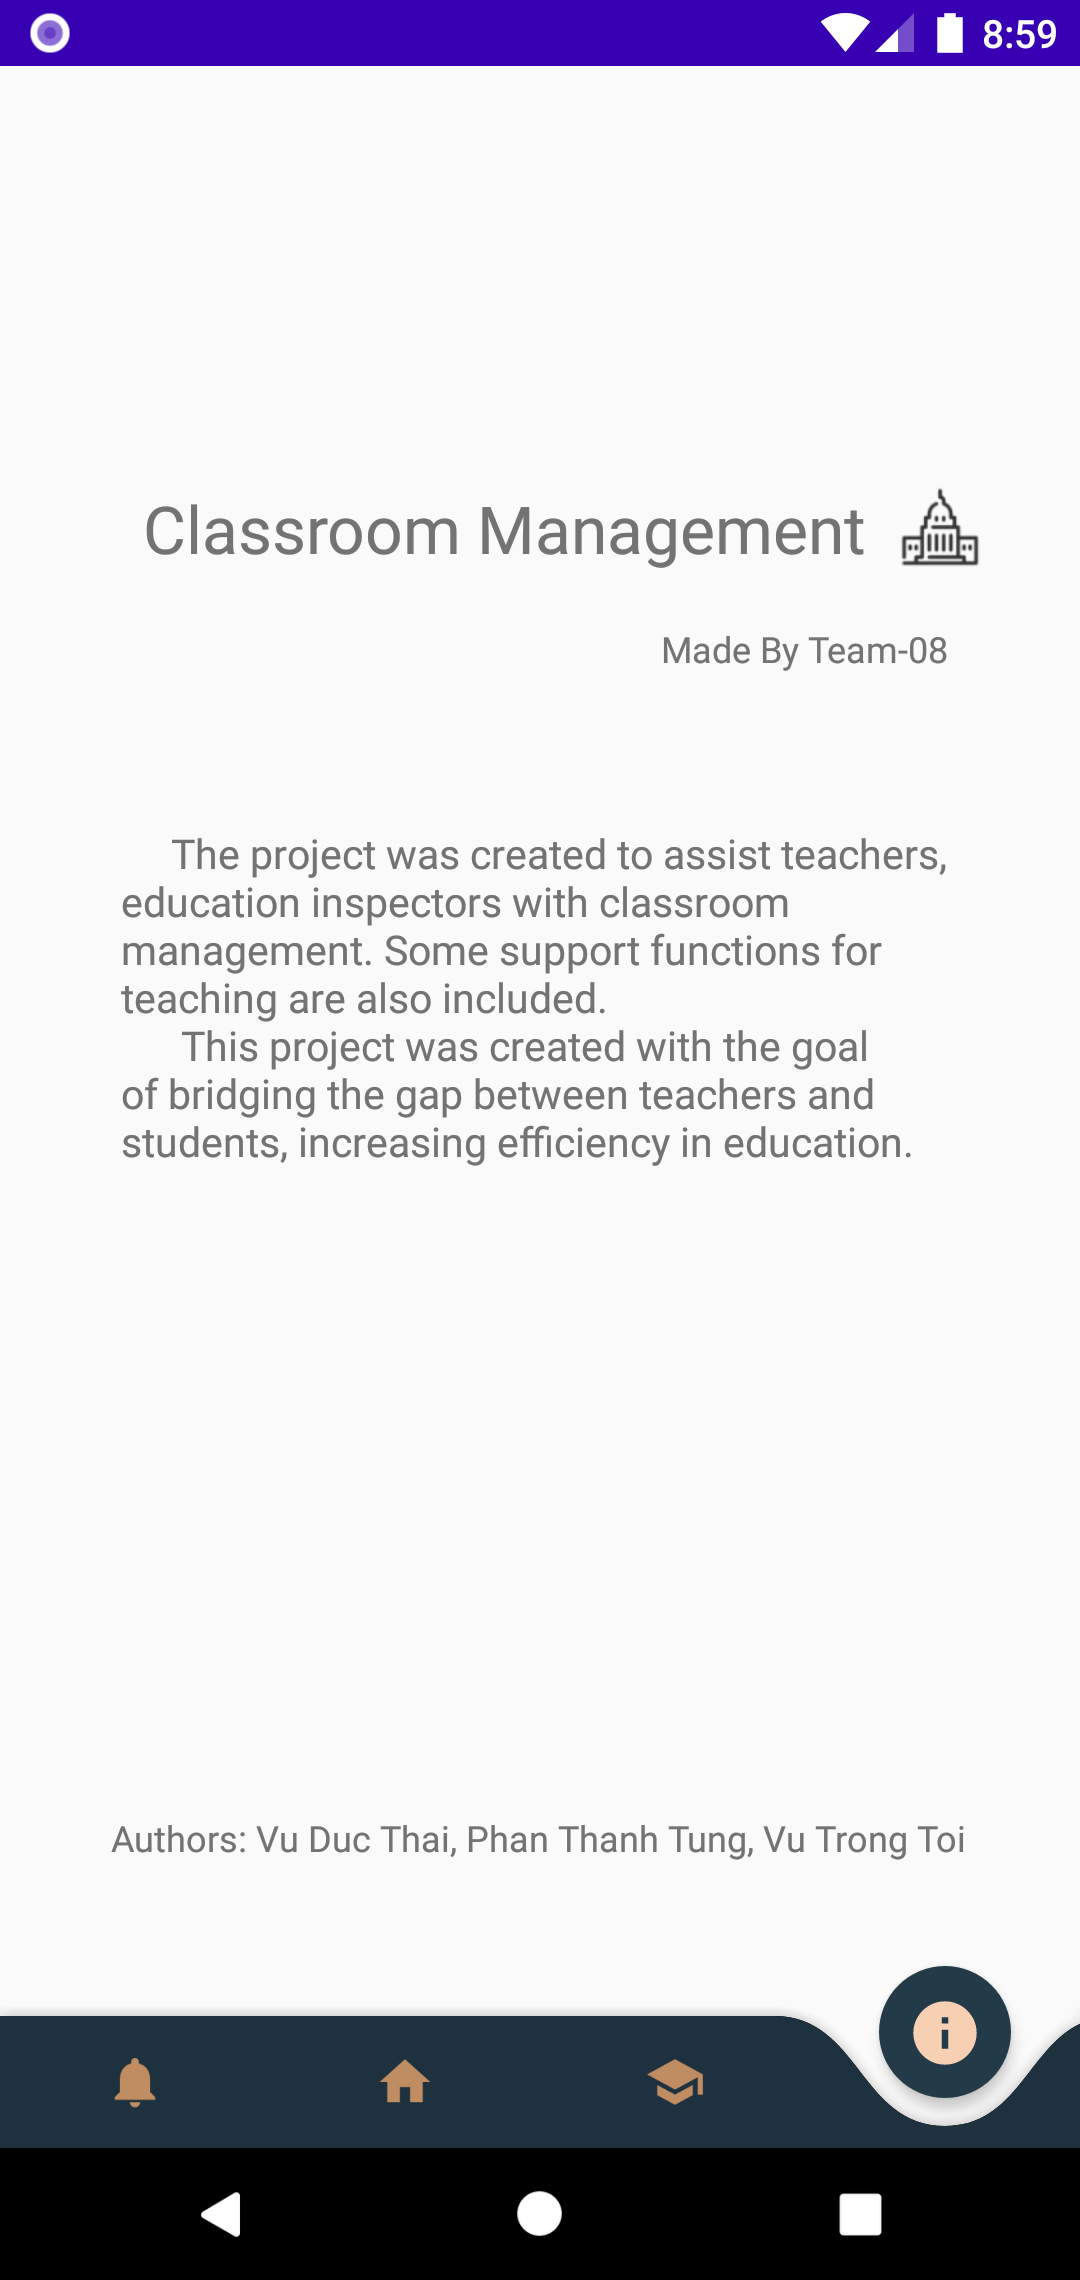
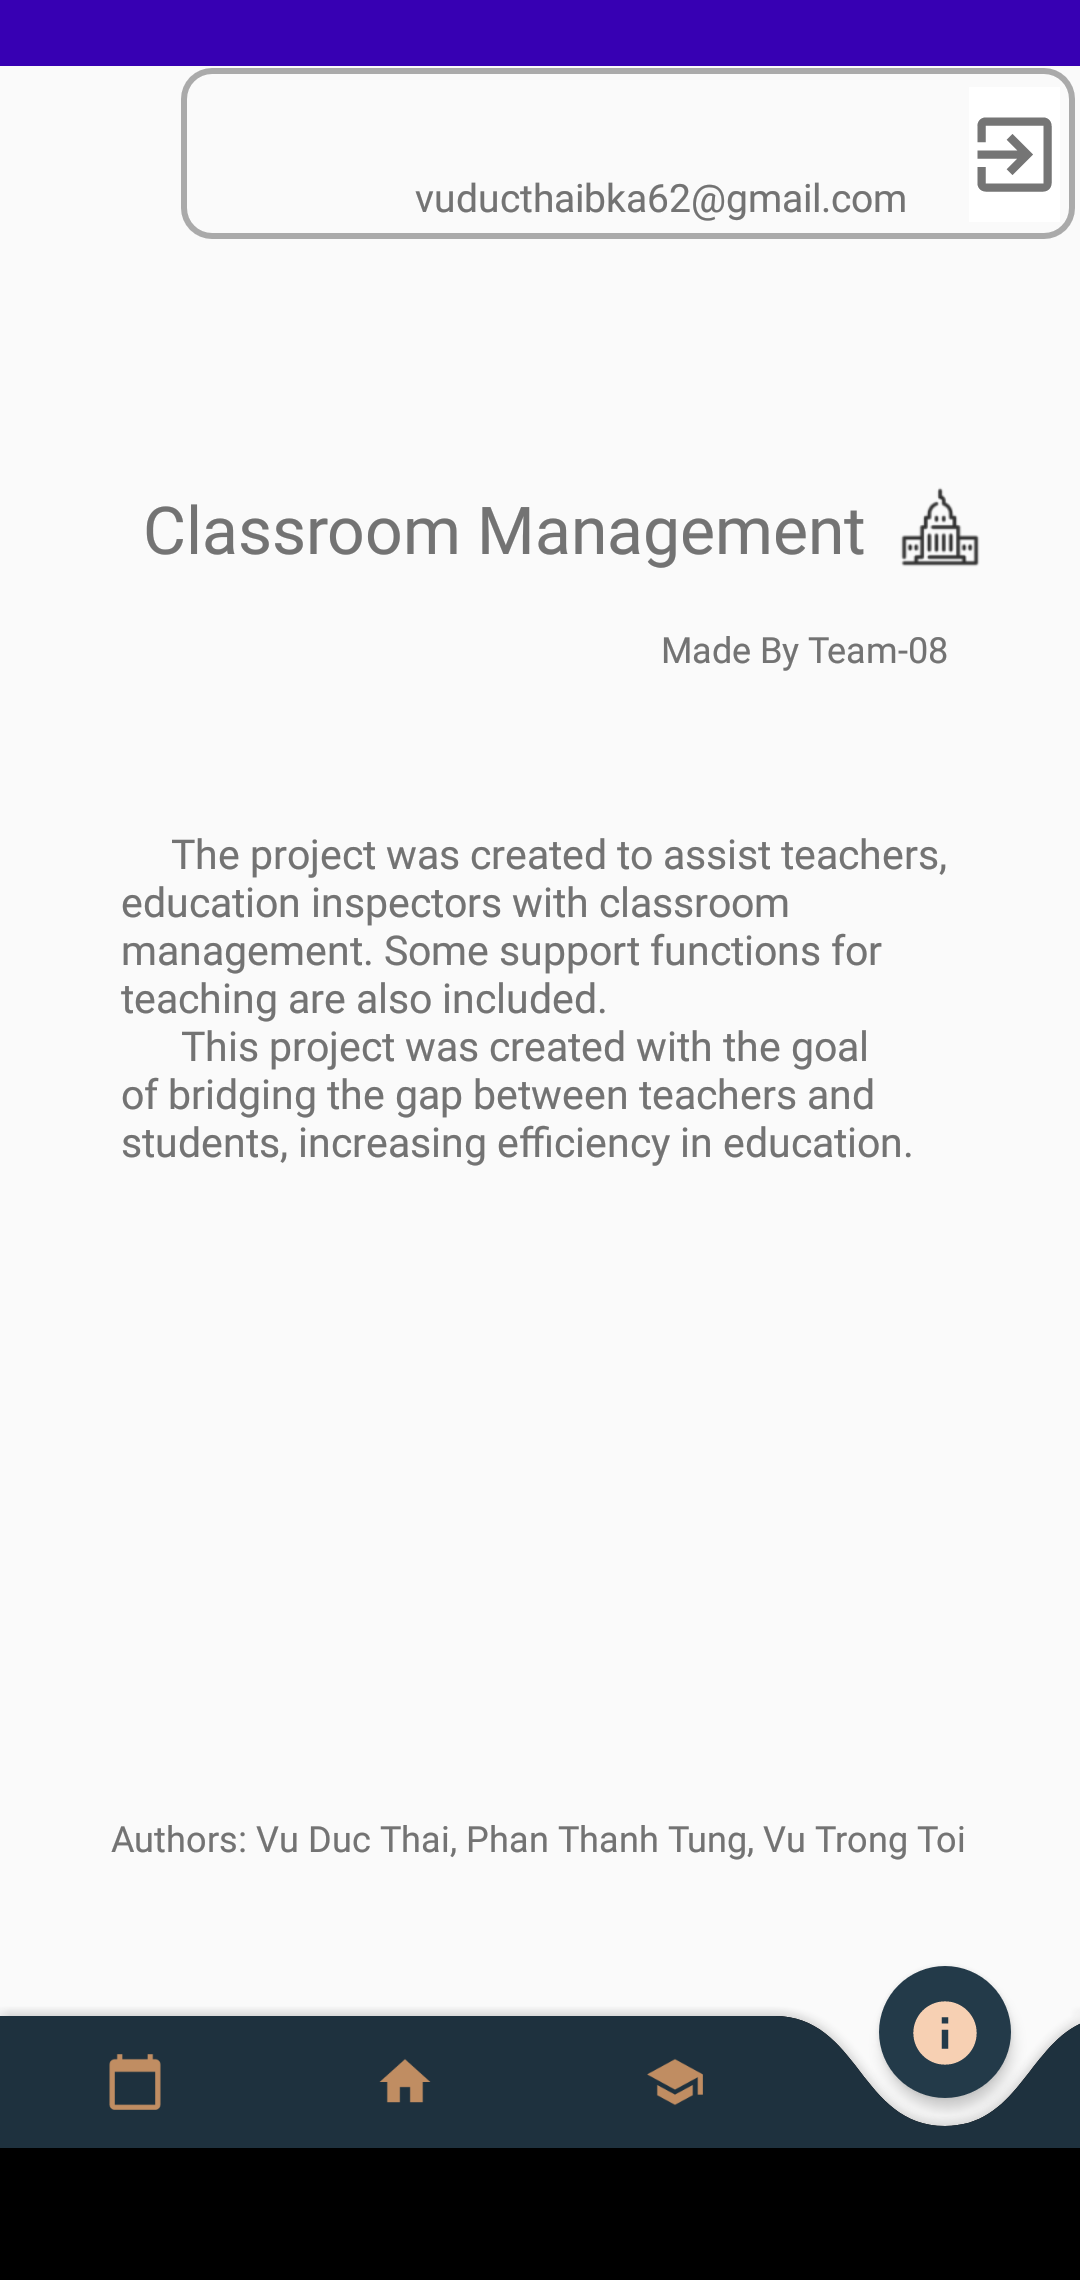
updating readme.md: update app's usage for final term

diff --git a/README.md b/README.md
@@ -4,57 +4,82 @@
 - [Usage](#usage)
   - [Login interface](#login-interface)
   - [Mainscreen interface](#mainscreen-interface)
-  - [Interacting with classroom objects](#interacting-with-classroom-objects)
-  - [Interacting with student objects](#interacting-with-student-objects)
+    - [Interacting with classroom objects](#interacting-with-classroom-objects)
+    - [Interacting with student objects](#interacting-with-student-objects)
+  - [Notification interface](#notification-interface)
+    - [Viewing classroom schedule](#viewing-classroom-schedule)
+    - [Attending students](#attending-students)
+  - [Home interface](#home-interface)
 - [Contributors](#contributors)
 
 
 # Introduction 
-:notebook: This classroom management program will provide basic utilities to help teachers easily manage students in their classes. This project is made for learning purposes. :man_student:  :woman_student:
+:notebook: This classroom management program will provide basic utilities to help teachers easily to manage students in their classes. This project is made for learning purposes. :man_student:  :woman_student:
 
 # Environment
 - We run this project on Android Studio IDE.
 - Our virtual device that we used to debug the program in android studio is Pixel 5 (api: 26, resolution: 1080 x 2340: 440dpi, Target: Android 8.0, CPU/ABI: x86).
-- Our physical device: ... 
+- Our physical device: Redme 5 pro
 # Usage
-
 ## Login interface
-- Log in with the user's account and password (the trial will use the account 'admin' with the password 'admin').
+- User can login by google account.
+- If the user doesn't have an account before, click on "Create New Account" to signup account.
 <p align= "center">
 <img src="./images/Login_Screenshot.png" alt="Login Screenshot" style="width:100px;height:200px;" />
+<img src="./images/Signup_Screenshot.png" alt="Signup Screenshot" style="width:100px;height:200px;" />
 </p>
 
 ## Mainscreen interface
-- After successfully logining, the main interface of the program will appear. Click on the bottom menu (includes notification item, home item, list of classrooms, about item) of the screen and select the classroom management function (the third item from left to right of the bottom menu).
-- About item contains the application's intro, the current version number.
+- After successfully logining, the main interface of the program will appear. Click on the bottom menu (includes notification item, home item, list of classrooms, about item) on the screen and select item connected with list of the unique user's classrooms (the third item from left to right of the bottom menu).
+- About item contains the application's intro, the current version number, information of the account, signout button.
 <p align= "center">
 <img src="./images/ClassList_Screenshot.png" alt="List of classrooms Screenshot" style="width:100px;height:200px;" />
 <img src="./images/About_Screenshot.png" alt="About Screenshot" style="width:100px;height:200px;" />
 </p>
 
-## Interacting with classroom objects
-- If you want to add a new classroom, you will click on the ( + ) image button at the bottom-right, then a adding window to add a new classroom will appear, fill in the classroom's desired information and click "Save" to save the infor.
-- If you want to update the class information, just long press on this classroom item in the list view, then an editing window will appear (for this classroom item). Hearin, You can update the classroom's information, delete the classroom by clicking the trash icon at the top-right corner of action bar (a dialog will pop up to confirm deleting).
+### Interacting with classroom objects
+- If you want to add a new classroom, you will click on the ( + ) image button at the bottom-right, then a adding window to add a new classroom will appear, fill up with classroom's desired information and click "Save" to save the infor.
+- If you want to update the class information, just long press on this classroom item in the list view, then an editing window will appear (for this classroom item). Hearin, You can update this classroom's information, delete the classroom by clicking the trash icon at the top-right corner of action bar (a dialog will pop up to confirm deleting).
 <p align= "center">
 <img src="./images/AddingClass_Screenshot.png" alt="Adding Classroom Screenshot" style="width:100px;height:200px;" />
 <img src="./images/UpdatingClass_Screenshot.png" alt="Updating Classroom Screenshot" style="width:100px;height:200px;" />
 <img src="./images/DeletingClass_Screenshot.png" alt="Deleting Classroom Screenshot" style="width:100px;height:200px;" />
 </p>
 
-## Interacting with student objects
+### Interacting with student objects
 - When clicking on a specific classroom in list view of classrooms, a list of students corresponding to this classroom will appear. The number of available students in the classroom will be displayed on the screen.
 <p align= "center">
 <img src="./images/StudentList_Screenshot.png" alt="List of Students Screenshot" style="width:100px;height:200px;" />
 </p>
 
-- If you want to add a student to the classroom, you will click on the ( + ) at the bottom-right, then a adding window to add a new classroom will appear, fill in the student's desired information and click "Save" to save the infor.
-- If you want to update student's information, just long press on this student item in the list view. then an editing window will appear (for this student item). Hearin, You can update or delete the same as above with the classroom's information (a dialog will pop up to confirm deleting).
+- If you want to add a student to the classroom, you will click on the ( + ) at the bottom-right, then a adding window to add a new classroom will appear, fill up with the student's desired information and click "Save" to save the infor.
+- If you want to update student's information, just long press on this student item in the list view, then an editing window will appear (for this student item). Hearin, You can update or delete the same as above with the classroom's manual.
 - Besides, you can also search for the student' name in the list in the class by clicking on the searching icon at the top of action bar.
+
 <p align= "center">
 <img src="./images/AddingStudent_Screenshot.png" alt="Adding Student Screenshot" style="width:100px;height:200px;" />
 <img src="./images/UpdatingStudent_Screenshot.png" alt="Updating Student Screenshot" style="width:100px;height:200px;" />
 <img src="./images/DeletingStudent_Screenshot.png" alt="Deleting Student Screenshot" style="width:100px;height:200px;" />
 <img src="./images/SearchingStudent_Screenshot.png" alt="Searching Student Screenshot" style="width:100px;height:200px;" />
+</p>
+
+## Notification interface
+- This interface includes two functions: viewing classroom schedule and attendance in everyday, when user long press on a classroom item, an attendance window will appear (respectively attending on a day selected in calander).
+### Viewing classroom schedule
+<p align= "center">
+<img src="./images/Notification1_Screenshot.png" alt="Notification1 Screenshot" style="width:100px;height:200px;" />
+<img src="./images/Notification2_Screenshot.png" alt="Notification2 Screenshot" style="width:100px;height:200px;" />
+</p>
+
+### Attending students
+<p align= "center">
+<img src="./images/Attending_Screenshot.png" alt="Attending Screenshot" style="width:100px;height:200px;" />
+</p>
+
+## Home interface
+
+<p align= "center">
+<img src="./images/Flowers_Falling_Effects.png" alt="Flowers_Falling_Effects" style="width:100px;height:200px;" />
 </p>
 
 # Contributors
